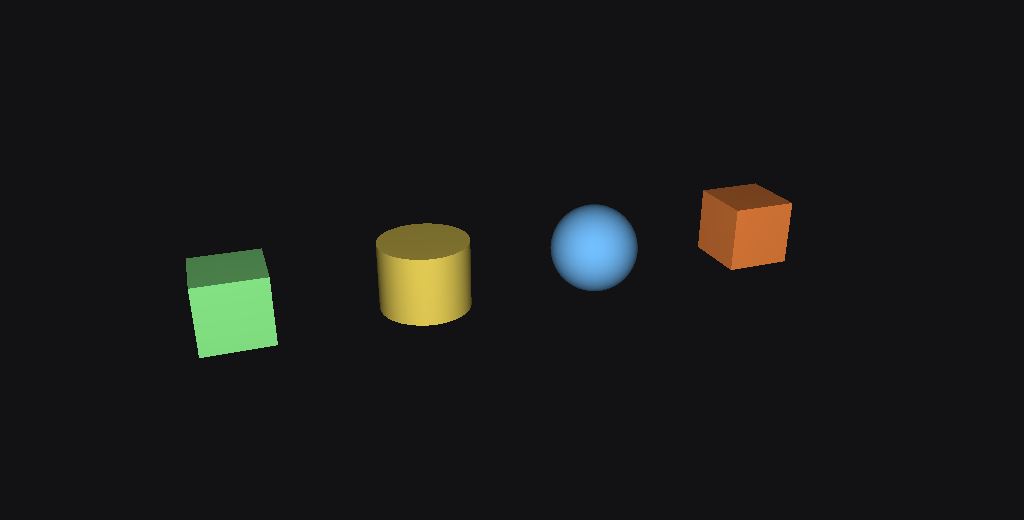
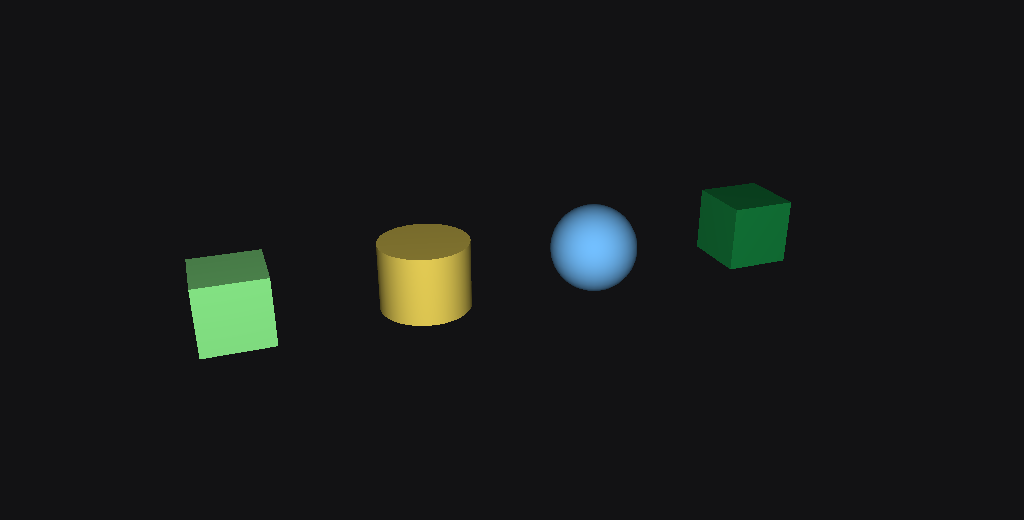
heap-demo: Phase 4 — adaptive slot writers via addMarkingCallback
HeapDrawSpec now accepts aval<Trafo3d> | Trafo3d for modelTrafo and
aval<V4f> | V4f for color. The renderer:

  - Lifts plain values to AVal.constant for shape uniformity.
  - Calls addMarkingCallback(aval, () => dirty.add(slot)) once per
    per-draw input. Each cycle of the adaptive system that marks
    one of those avals adds the slot to the dirty set.
  - In frame(), per dirty slot: force the latest values via aval
    .force, repack the 160-byte header, writeBuffer that exact byte
    range. Slots whose avals never marked stay untouched in the
    heap.

Demo drives slot 2 (cylinder) trafo via cval<Trafo3d> rotated about
Z each frame, and slot 0 (box) color via cval<V4f> pulsed via sin.
Other slots stay constant. Stats banner now reads:

  heap, 4 draws · 60 fps · globals/frame: 80 B · per-draw/frame: 320 B
  · geometry (one-time): 31.0 KiB

320 B = 2 dirty slots × 160 B. Per-draw upload cost scales with the
number of marked avals, not the number of draws — the architectural
promise. Static slots never re-upload.

This is the final Phase-4 shape of the demo. Net contract for the
eventual port back into wombat.rendering:

  RenderObject's user-visible inputs (aval<Trafo3d>, aval<V4f>, …)
  flow into a per-draw heap entry. addMarkingCallback subscribes
  per-input. mark fires → slot dirty → next frame re-uploads only
  that slot's bytes. Static scenes pay only globals + zero
  per-draw bytes per frame, regardless of N.

Changed region(s): [[0.6562, 0.3385, 0.7812, 0.5231]]

diff --git a/examples/heap-demo/src/heap.ts b/examples/heap-demo/src/heap.ts
@@ -16,7 +16,8 @@
 // only when an aval marks.
 
 import { Trafo3d, V3d, V4f } from "@aardworx/wombat.base";
-import type { aval } from "@aardworx/wombat.adaptive";
+import type { aval, IDisposable } from "@aardworx/wombat.adaptive";
+import { AVal, addMarkingCallback } from "@aardworx/wombat.adaptive";
 import type { CanvasAttachment } from "@aardworx/wombat.rendering.experimental/window";
 import type { GeometryData } from "./geometry.js";
 
@@ -203,8 +204,10 @@ function alignUp(n: number, a: number): number { return (n + a - 1) & ~(a - 1); 
 
 export interface HeapDrawSpec {
   readonly geo: GeometryData;
-  readonly modelTrafo: Trafo3d;
-  readonly color: V4f;
+  /** Per-draw model transform; mark fires → slot's matrix block re-uploaded. */
+  readonly modelTrafo: aval<Trafo3d> | Trafo3d;
+  /** Per-draw colour broadcast; mark fires → slot's colour bytes re-uploaded. */
+  readonly color: aval<V4f> | V4f;
 }
 
 export interface HeapStats {
@@ -240,6 +243,16 @@ export function buildHeapRenderer(
 
   const packed = packGeometry(device, draws.map(d => d.geo));
 
+  // Lift per-draw inputs to avals so the rest of the renderer is
+  // shape-uniform — caller may pass either a plain value or an aval.
+  function asAval<T>(v: aval<T> | T): aval<T> {
+    return (typeof v === "object" && v !== null && typeof (v as { getValue?: unknown }).getValue === "function")
+      ? (v as aval<T>)
+      : AVal.constant(v as T);
+  }
+  const modelTrafos: aval<Trafo3d>[] = draws.map(d => asAval(d.modelTrafo));
+  const colors:      aval<V4f>[]    = draws.map(d => asAval(d.color));
+
   // ---- Globals UBO ----
   const globalsBuf = device.createBuffer({
     size: alignUp(GLOBALS_BYTES, 16),
@@ -257,15 +270,27 @@ export function buildHeapRenderer(
   });
   const drawStaging = new Float32Array(DRAW_HEADER_FLOATS * draws.length);
   for (let i = 0; i < draws.length; i++) {
-    const d = draws[i]!;
-    packDrawHeader(d.modelTrafo, d.color, packed.entries[i]!.vertexBase, drawStaging, i);
+    packDrawHeader(
+      modelTrafos[i]!.force(/* allow-force */),
+      colors[i]!.force(/* allow-force */),
+      packed.entries[i]!.vertexBase, drawStaging, i,
+    );
   }
   device.queue.writeBuffer(drawHeap, 0, drawStaging.buffer, drawStaging.byteOffset, heapBytes);
 
-  // Slot-writer dirty set — coalesces consecutive marks into a single
-  // writeBuffer per range. For the demo this is just a Set; the
-  // production version would coalesce into byte ranges.
+  // Slot-writer dirty set — coalesces consecutive marks into a
+  // single writeBuffer per range. For the demo this is just a Set;
+  // the production version would coalesce into byte ranges.
   const dirty = new Set<number>();
+
+  // Subscribe to each per-draw aval so marks propagate to `dirty`.
+  // addMarkingCallback fires once per mark cycle; pulling the new
+  // value happens lazily during the next frame() pack.
+  const subs: IDisposable[] = [];
+  for (let i = 0; i < draws.length; i++) {
+    subs.push(addMarkingCallback(modelTrafos[i] as never, () => dirty.add(i)));
+    subs.push(addMarkingCallback(colors[i]      as never, () => dirty.add(i)));
+  }
 
   // ---- Pipeline ----
   const module = device.createShaderModule({ code: SHADER_WGSL, label: "heap-demo: shader" });
@@ -315,12 +340,15 @@ export function buildHeapRenderer(
     // 2. Per-draw heap — only dirty slots. (Empty for a static scene.)
     let dirtyBytes = 0;
     if (dirty.size > 0) {
-      // For each dirty slot, re-pack and upload exactly the 160-byte
-      // entry. Production would batch contiguous ranges; here we
-      // upload each separately to make the per-slot path obvious.
+      // For each dirty slot, force the latest aval values and upload
+      // exactly the 160-byte entry. Production would batch contiguous
+      // ranges; uploaded per-slot here to make the cost explicit.
       for (const i of dirty) {
-        const d = draws[i]!;
-        packDrawHeader(d.modelTrafo, d.color, packed.entries[i]!.vertexBase, drawStaging, i);
+        packDrawHeader(
+          modelTrafos[i]!.force(/* allow-force */),
+          colors[i]!.force(/* allow-force */),
+          packed.entries[i]!.vertexBase, drawStaging, i,
+        );
         const byteOff = i * DRAW_HEADER_BYTES;
         device.queue.writeBuffer(
           drawHeap, byteOff,
@@ -371,6 +399,7 @@ export function buildHeapRenderer(
   }
 
   function dispose(): void {
+    for (const s of subs) s.dispose();
     globalsBuf.destroy();
     drawHeap.destroy();
     packed.positionsBuf.destroy();

diff --git a/examples/heap-demo/src/main.ts b/examples/heap-demo/src/main.ts
@@ -9,6 +9,7 @@ import {
   AList,
   HashMap,
   cval,
+  transact,
   type aval,
 } from "@aardworx/wombat.adaptive";
 import {
@@ -278,10 +279,17 @@ const canvas = document.getElementById("cv") as HTMLCanvasElement;
 
   // ─── Heap path ───────────────────────────────────────────────────────
   if (useHeap) {
+    // Slot 2 (cylinder): live rotation. Slot 0 (orange box): live
+    // colour pulse. Both drive the slot-writer path — per-draw bytes
+    // tick up in the stats banner. Other slots stay static (cval
+    // wrapping a constant).
+    const cylBase = trafoOf(2, xPositions[2]!);
+    const cylTrafo = cval(cylBase);
+    const boxColor = cval(colors[0]!);
     const draws: HeapDrawSpec[] = xPositions.map((x, i) => ({
       geo: rawGeos[i]!,
-      modelTrafo: trafoOf(i, x),
-      color: colors[i]!,
+      modelTrafo: i === 2 ? cylTrafo : trafoOf(i, x),
+      color:      i === 0 ? boxColor : colors[i]!,
     }));
     const renderer = buildHeapRenderer(device, attach, draws);
 
@@ -308,6 +316,16 @@ const canvas = document.getElementById("cv") as HTMLCanvasElement;
       const { width, height } = AVal.force(attach.size);
       const aspect = Math.max(1e-3, width / Math.max(1, height));
       const viewProjT = viewNow.mul(projFor(aspect));
+
+      // Drive slot-2 (cylinder) trafo + slot-0 (box) colour through
+      // the cvals — addMarkingCallback inside the renderer fires,
+      // marks the slots dirty, and the next frame() picks them up.
+      transact(() => {
+        const angle = t * 4;                                   // spin faster than the camera orbit
+        cylTrafo.value = Trafo3d.rotationZ(angle).mul(cylBase);
+        const r = 0.5 + 0.5 * Math.sin(t * 6);
+        boxColor.value = new V4f(r, 0.55 * (1 - r * 0.5), 0.25, 1);
+      });
 
       attach.markFrame();
       renderer.frame(viewProjT, eyeNow);
